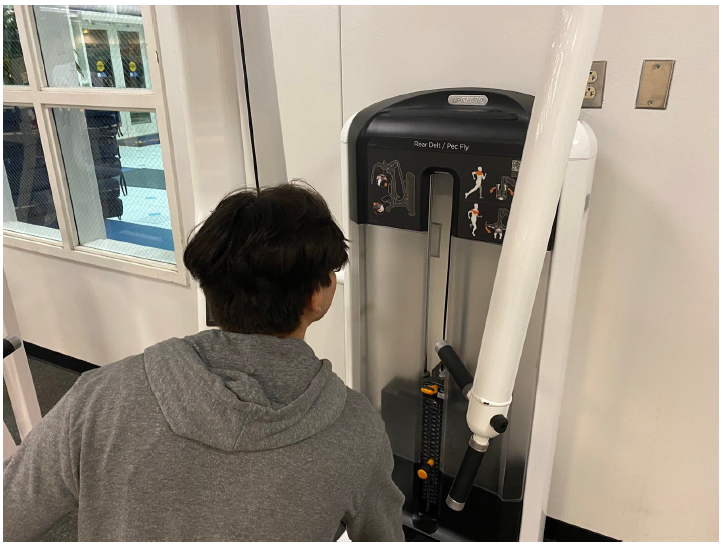
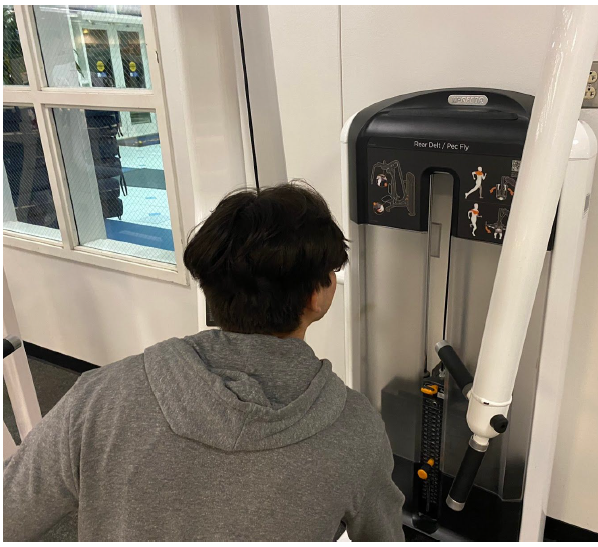
changed alignment of pictures and page w

diff --git a/gymbuddy.html b/gymbuddy.html
@@ -51,7 +51,9 @@
 							<h1>Needfinding</h1>
 							<p>To better understand and empathize with students at the UCSD gym, we conducted needfinding and observed breakdowns that users had. We needed to distinguish what users wanted, wished and had trouble with at the gym. We started by directly observing students at the gym and paid attention when users made slips, mistakes or awkward interactions. We interviewed students afterwards and asked them open-ended questions about their experience, background in the gym, needs, and wishes. </p>
 							<br>
-							<span class='imgDUAL'><img src="images/gymbuddy/nfinding1.png"><img width='100%'src="images/gymbuddy/nfinding2.png"></span>
+							<div class='dual'>
+								<span class='imgDUAL'><img src="images/gymbuddy/nfinding1.png"><img width='100%'src="images/gymbuddy/nfinding2.png"></span>
+							</div>
 							<p><b>User Needs We Identified:</b>
 							<br>Students at the gym need...
 							<ul>

diff --git a/assets/css/main.css b/assets/css/main.css
@@ -2311,8 +2311,36 @@ input, select, textarea {
 
 /* Image */
 	img {
-		
+		display: flex;
+		justify-content: center;
 	}
+	.main {
+		width: 1024px;
+    	height: 100%;
+    	position: relative;
+		margin: auto;
+		display: flex;
+		justify-content: center;
+	}
+
+	figure {
+		border: 1px #cccccc solid;
+ 		padding: 4px;
+  		margin: auto;
+	}
+
+	figcaption {
+		background-color: black;
+		color: white;
+		font-style: italic;
+		padding: 2px;
+		text-align: center;
+	}
+
+	.dual {
+		display: flex;
+	}
+
 	.image {
 		border-radius: 4px;
 		border: 0;
